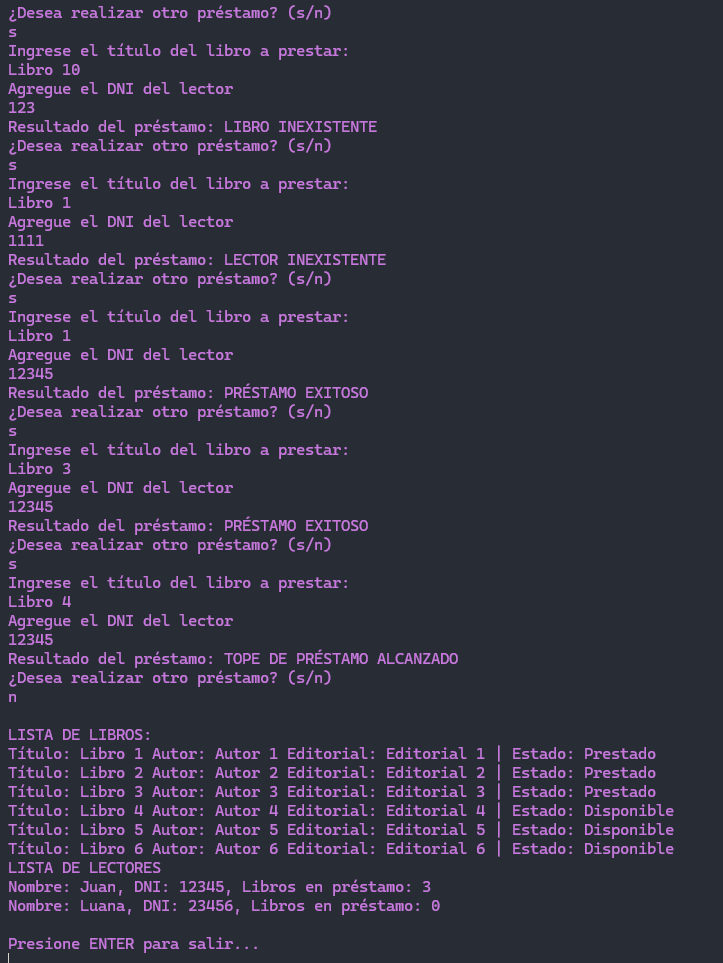
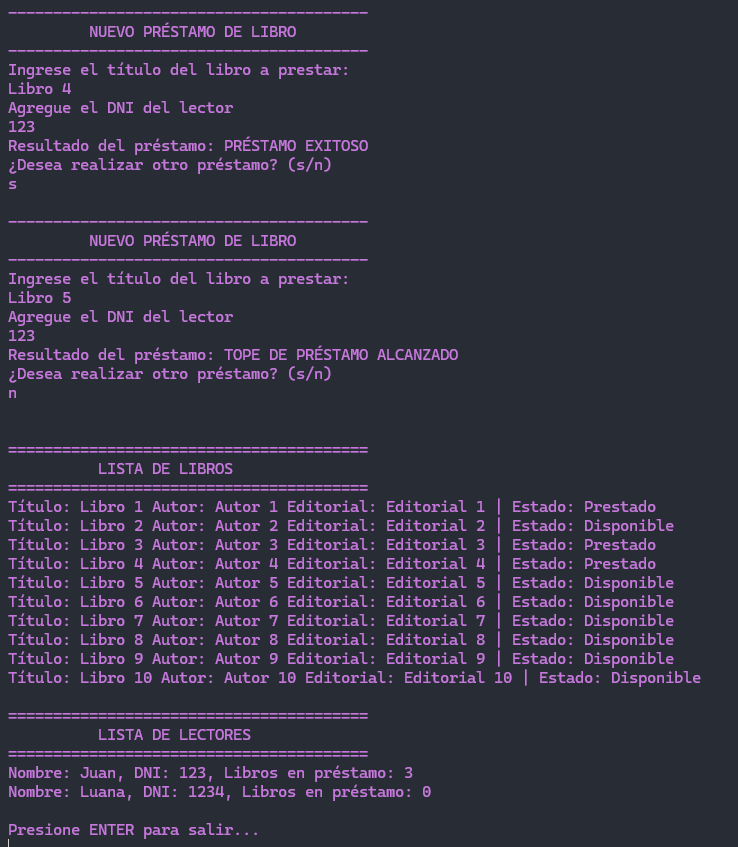
Agrego estilos a los test, modifico readme

Changed region(s): [[0.0, 0.0, 0.9433, 1.0]]

diff --git a/Biblioteca/Test.cs b/Biblioteca/Test.cs
@@ -16,24 +16,34 @@ namespace Biblioteca
             //Console.WriteLine("---------------------");
             //biblioteca.listarLibros();
             Console.WriteLine("");
-            Console.WriteLine("LISTA DE LIBROS");
+            Console.WriteLine("\n========================================");
+            Console.WriteLine("          LISTA DE LIBROS ");
+            Console.WriteLine("========================================");
             biblioteca.listarLibros();
-            Console.WriteLine("");
-            Console.WriteLine("LISTA DE LECTORES");
+            Console.WriteLine("\n========================================");
+            Console.WriteLine("          LISTA DE LECTORES ");
+            Console.WriteLine("========================================");
             biblioteca.listarLectores();
             Console.WriteLine("");
             bool continuar = true;
             while (continuar)
             {
+                Console.WriteLine("\n----------------------------------------");
+                Console.WriteLine("         NUEVO PRÉSTAMO DE LIBRO");
+                Console.WriteLine("----------------------------------------");
                 SolicitarYPrestarLibro();
                 Console.WriteLine("¿Desea realizar otro préstamo? (s/n)");
                 string respuesta = Console.ReadLine().ToLower();
                 continuar = (respuesta == "s");
             }
             Console.WriteLine("");
-            Console.WriteLine("LISTA DE LIBROS:");
+            Console.WriteLine("\n========================================");
+            Console.WriteLine("          LISTA DE LIBROS ");
+            Console.WriteLine("========================================");
             biblioteca.listarLibros();
-            Console.WriteLine("LISTA DE LECTORES");
+            Console.WriteLine("\n========================================");
+            Console.WriteLine("          LISTA DE LECTORES ");
+            Console.WriteLine("========================================");
             biblioteca.listarLectores();
             Console.WriteLine("\nPresione ENTER para salir...");
             Console.ReadLine();

diff --git a/README.md b/README.md
@@ -60,4 +60,5 @@ git clone https://github.com/Ana-Galvez/Biblioteca.git
 ## Ejemplo de la ejecución del test:
 
 ![Test](./assets/test.png)
+![Test](./assets/test2.png)
 ![Test](./assets/test1.png)
